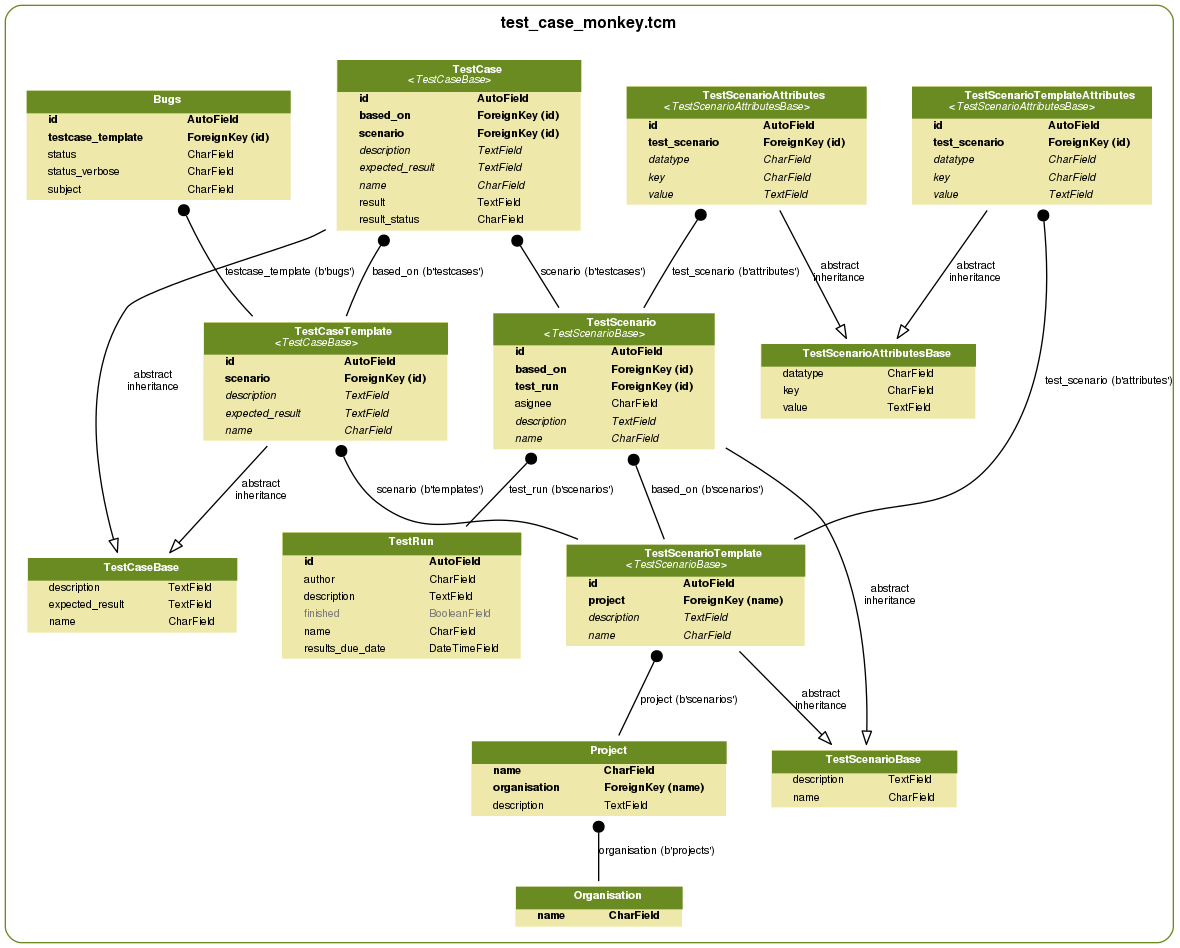
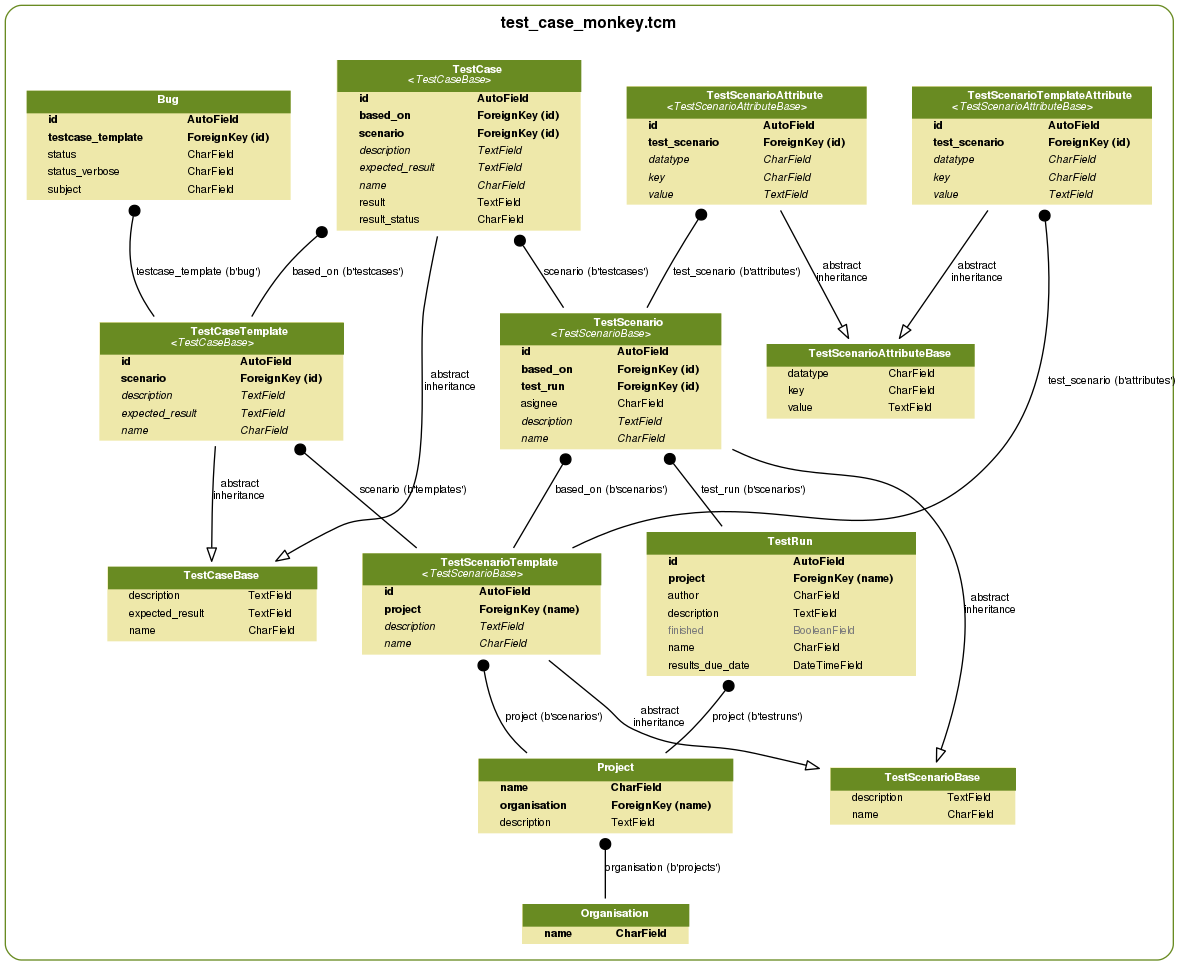
Fix Testrun not having Project foreign key

diff --git a/test_case_monkey/tcm/migrations/0004_add_project_FK_to_testrun.py b/test_case_monkey/tcm/migrations/0004_add_project_FK_to_testrun.py
@@ -1,0 +1,22 @@
+# -*- coding: utf-8 -*-
+# Generated by Django 1.9.9 on 2016-09-20 15:48
+from __future__ import unicode_literals
+
+from django.db import migrations, models
+import django.db.models.deletion
+
+
+class Migration(migrations.Migration):
+
+    dependencies = [
+        ('tcm', '0003_fix_plural_names'),
+    ]
+
+    operations = [
+        migrations.AddField(
+            model_name='testrun',
+            name='project',
+            field=models.ForeignKey(default='', on_delete=django.db.models.deletion.CASCADE, related_name='testruns', to='tcm.Project'),
+            preserve_default=False,
+        ),
+    ]

diff --git a/test_case_monkey/tcm/models.py b/test_case_monkey/tcm/models.py
@@ -28,6 +28,10 @@ class TestRun(models.Model):
     finished = models.BooleanField()
     author = models.CharField(max_length=50)  # TODO use real username
 
+    project = models.ForeignKey(Project,
+                                on_delete=models.CASCADE,
+                                related_name='testruns')
+
     def __str__(self):
         return str(self.name)
 
